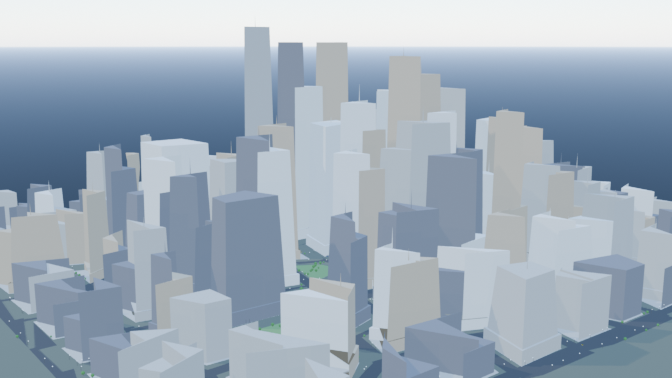
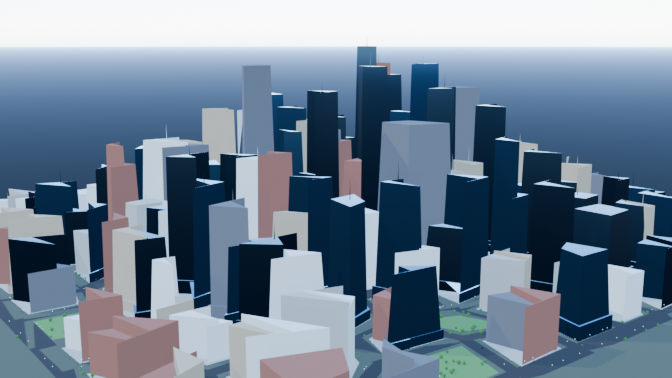
Update city generation scripts and renders

diff --git a/city/materials.py b/city/materials.py
@@ -48,21 +48,25 @@ def _facade_mat(name, color, roughness, metallic, glass, night, windows=True):
     mapping.inputs["Scale"].default_value = (1.0, 1.0, 1.0)
     brick = nt.nodes.new("ShaderNodeTexBrick")
     brick.offset = 0.0
-    brick.inputs["Scale"].default_value = 8.0
-    brick.inputs["Mortar Size"].default_value = 0.35
+    brick.inputs["Scale"].default_value = 10.0
+    brick.inputs["Mortar Size"].default_value = 0.25
     brick.inputs["Color1"].default_value = (1, 1, 1, 1)
     brick.inputs["Color2"].default_value = (1, 1, 1, 1)
     brick.inputs["Mortar"].default_value = (0, 0, 0, 1)
+    invert = nt.nodes.new("ShaderNodeMath")
+    invert.operation = "SUBTRACT"
+    invert.inputs[0].default_value = 1.0
+    nt.links.new(brick.outputs["Fac"], invert.inputs[1])
 
     if night:
         emission = nt.nodes.new("ShaderNodeEmission")
         emission.inputs["Color"].default_value = (1.0, 0.75, 0.4, 1.0)
-        emission.inputs["Strength"].default_value = 6.0
+        emission.inputs["Strength"].default_value = 2.2
         mix = nt.nodes.new("ShaderNodeMixShader")
         out = nt.nodes["Material Output"]
         nt.links.new(tex.outputs["Generated"], mapping.inputs["Vector"])
         nt.links.new(mapping.outputs["Vector"], brick.inputs["Vector"])
-        nt.links.new(brick.outputs["Fac"], mix.inputs["Fac"])
+        nt.links.new(invert.outputs["Value"], mix.inputs["Fac"])
         nt.links.new(bsdf.outputs["BSDF"], mix.inputs[1])
         nt.links.new(emission.outputs["Emission"], mix.inputs[2])
         nt.links.new(mix.outputs["Shader"], out.inputs["Surface"])

diff --git a/city/lighting.py b/city/lighting.py
@@ -33,7 +33,7 @@ def setup(cfg: Config) -> None:
             sky.sun_rotation = math.radians(135)
         nt.links.new(sky.outputs["Color"], bg.inputs["Color"])
         bg.inputs["Strength"].default_value = 0.45
-        sun_energy = 2.0
+        sun_energy = 1.5
         sun_color = (1.0, 0.95, 0.85, 1.0)
         sun_rot = (math.radians(50), 0, math.radians(-45))
 
@@ -50,7 +50,7 @@ def setup(cfg: Config) -> None:
     # gentle fill for night so silhouettes read
     if cfg.night:
         moon_data = bpy.data.lights.new("Moon", type="SUN")
-        moon_data.energy = 0.3
+        moon_data.energy = 0.8
         moon_data.color = (0.5, 0.6, 0.9)
         moon = bpy.data.objects.new("Moon", moon_data)
         moon.rotation_euler = (math.radians(60), 0, math.radians(140))

diff --git a/city/main.py b/city/main.py
@@ -29,6 +29,13 @@ def _set_render(cfg, preview: bool) -> None:
         scene.eevee.taa_render_samples = cfg.preview_samples if preview else cfg.samples
     scene.render.image_settings.file_format = "PNG"
     scene.render.film_transparent = False
+    scene.view_settings.exposure = -0.3
+    for look in ("AgX - Medium High Contrast", "Medium High Contrast"):
+        try:
+            scene.view_settings.look = look
+            break
+        except TypeError:
+            continue
 
 
 def build(cfg) -> None:

diff --git a/city/buildings.py b/city/buildings.py
@@ -139,9 +139,10 @@ def build_building(bm, quad, height, rng, facade_idx):
 
 
 def pick_facade(cfg, height, glass_count, rng):
+    glass_start = len(materials.FACADE_PALETTES) - glass_count
     if height > 50.0 and rng.random() < cfg.glass_chance:
-        return rng.choice(range(glass_count, glass_count + 2))
-    return rng.randrange(0, glass_count)
+        return rng.randrange(glass_start, len(materials.FACADE_PALETTES))
+    return rng.randrange(0, glass_start)
 
 
 def generate(cfg: Config) -> None:

diff --git a/city/details.py b/city/details.py
@@ -130,7 +130,7 @@ def generate(cfg: Config) -> None:
         light_mat = None
         for i, p in enumerate(lamp_positions[::step]):
             light_data = bpy.data.lights.new(f"LampLight{i}", type="POINT")
-            light_data.energy = 800.0
+            light_data.energy = 300.0
             light_data.color = (1.0, 0.75, 0.45)
             light_data.shadow_soft_size = 1.0
             lo = bpy.data.objects.new(f"LampLight{i}", light_data)
